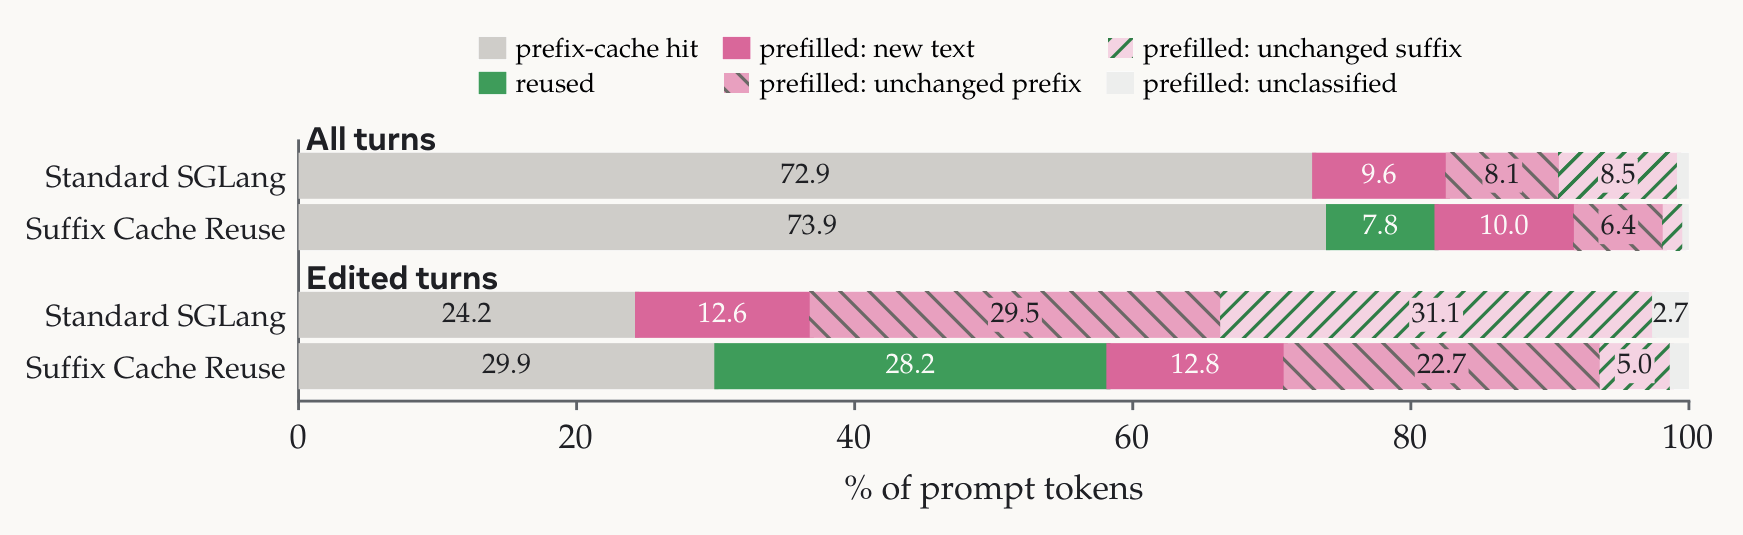
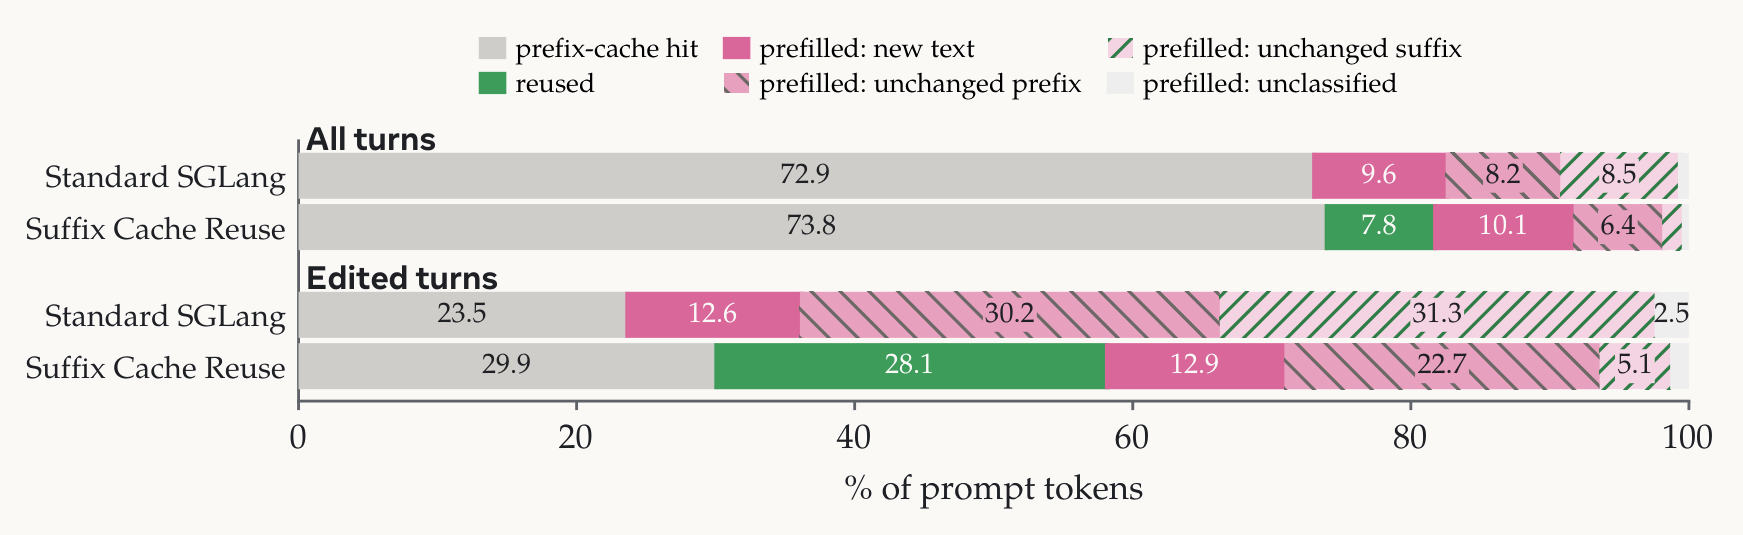
SCR post: three-seed BrowseComp-Plus numbers and figures, wall-clock time, short vLLM paragraph (Rulin 2026-10-13)
Claude-Session: https://claude.ai/code/session_01VrfjKqUjtv5GPmdVhvhNBN

diff --git a/_posts/2026-09-28-context-language-models.md b/_posts/2026-09-28-context-language-models.md
@@ -141,18 +141,19 @@ We perform an end-to-end evaluation of SCR on BrowseComp-Plus with the [CLM harn
 
 [^impl]: Our implementation of Suffix Cache Reuse is available at [facebookresearch/context-language-models/suffix_cache_reuse](https://github.com/facebookresearch/context-language-models/tree/main/suffix_cache_reuse).
 
-![Suffix Cache Reuse on BrowseComp-Plus with a Qwen3.6-27B CLM. All 830 questions were served both ways. Left: task accuracy. Middle: compute per question, split into prefill and decode. Right: where the prompt tokens came from, over all turns and over the turns right after a context edit.]({{ '/assets/img/clm/scr-bcp830-results.png' | relative_url }})
+![Suffix Cache Reuse on BrowseComp-Plus with a Qwen3.6-27B CLM. All 830 questions were served both ways, with three seeds each. Left: task accuracy. Middle: compute per question, split into prefill and decode. Right: where the prompt tokens came from, over all turns and over the turns right after a context edit.]({{ '/assets/img/clm/scr-bcp830-results.png' | relative_url }})
 
-Accuracy is identical, 60.2% both ways, while compute drops from 10.98 to 7.14 PFLOPs per question. On the turns right after an edit, SCR serves an extra 28.2% of the prompt from relocated cache that standard serving would have recomputed. CLMs were already cheaper than the baselines under standard serving, through better context management alone; SCR brings their serving cost down to 65% of that.
+Averaged over three seeds, accuracy is on par (59.0% with standard serving, 60.6% with SCR), while compute drops from 11.00 to 7.21 PFLOPs per question. On the turns right after an edit, SCR serves an extra 28.1% of the prompt from relocated cache that standard serving would have recomputed. The savings show up in wall-clock time too: each question finishes 10% faster (874 s to 786 s). CLMs were already cheaper than the baselines under standard serving, through better context management alone; SCR brings their serving cost down to 65% of that.
 
 **Bonus: reasoning-token stripping is a context edit too.** Other cache misses arise from reasoning-token stripping in some chat-template serving. For models such as Qwen3.6, earlier reasoning blocks are removed from subsequent prompts, forcing the unchanged suffix to be prefilled again. SCR reuses this suffix cache as well. In fact, most of SCR’s extra reuse comes from stripped reasoning rather than CLM edits. The figure below shows a decomposition of the tokens hit by Suffix Cache Reuse.
 
-![Where Suffix Cache Reuse finds reusable cache on BrowseComp-Plus, over all turns and over the turns right after an edit. Qwen3.6-27B, 830 questions.]({{ '/assets/img/clm/scr-strip-savings.png' | relative_url }})
+![Where Suffix Cache Reuse finds reusable cache on BrowseComp-Plus, over all turns and over the turns right after an edit. Qwen3.6-27B, 830 questions, three seeds.]({{ '/assets/img/clm/scr-strip-savings.png' | relative_url }})
 
 **Improvement space for cache misses.** We also looked at the unchanged tokens that are still prefilled with SCR. SCR removes most re-prefilling of unchanged suffixes after an edit. Much of the remaining overhead comes from unchanged prefixes that standard SGLang fails to reuse efficiently for hybrid models, because linear-attention states are cached only at request boundaries. This leaves substantial room for improvement: finer-grained recurrent-state checkpoints could increase cache hit rates for both standard prefix caching and SCR. More broadly, serving models with editable context opens many new systems research directions.
 
 ![Remaining re-prefill under standard serving and under Suffix Cache Reuse on BrowseComp-Plus, split by why each token was prefilled. Same runs as above.]({{ '/assets/img/clm/scr-prefill-split.png' | relative_url }})
 
+**Suffix Cache Reuse in vLLM.** We also ported SCR to vLLM as a plugin, without modifying vLLM itself. On a multi-turn editing workload with 8 to 16 concurrent conversations, it raises throughput by 1.4 to 1.6 times and cuts the median time to first token by 32% to 54%. On BrowseComp-Plus it lowers compute per question by 25% and wall-clock time per question by 12%, again with accuracy on par.
 
 ## Related work
 
